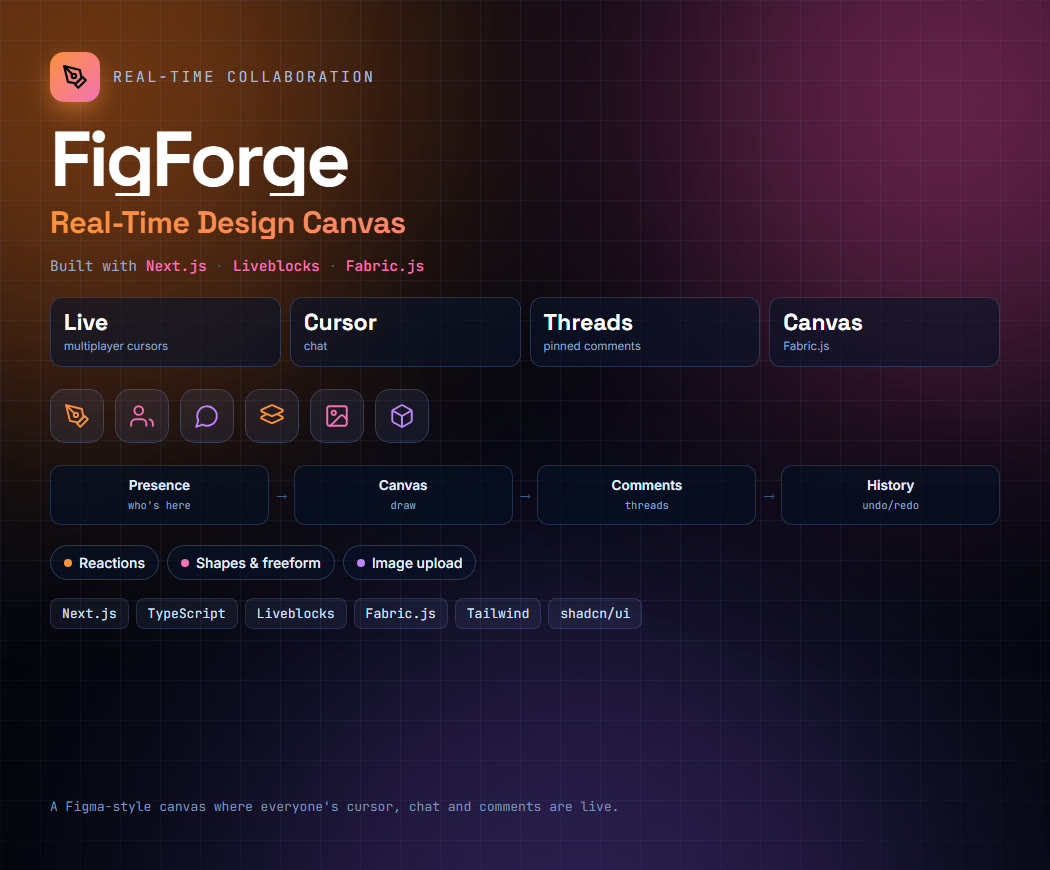
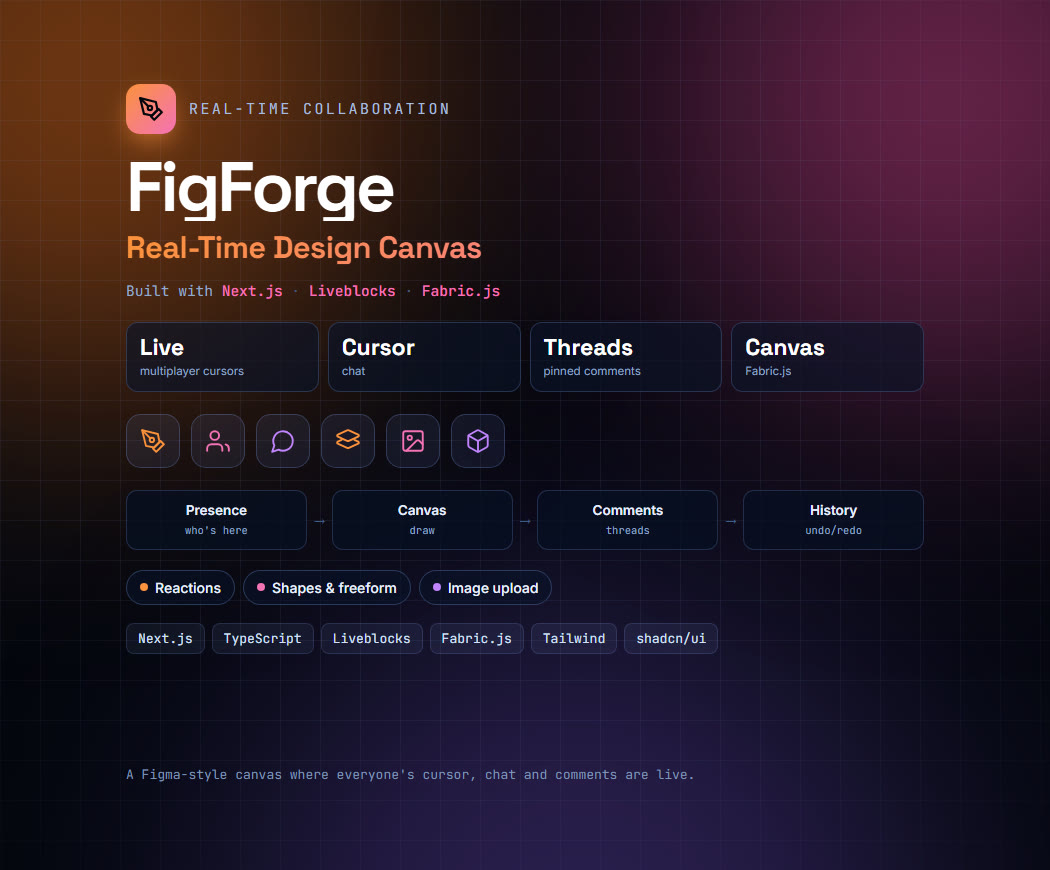
Thumbnails: cover-fit with computed safe margins so cards never letterbox or clip content

diff --git a/app/globals.css b/app/globals.css
@@ -1884,12 +1884,12 @@ svg {
   background: linear-gradient(180deg, rgba(0, 4, 21, 0) 40%, rgba(0, 4, 21, 0.85) 100%);
 }
 
-/* the art column stretches when "More details" expands the text column;
-   contain keeps the whole thumbnail visible at any card height */
+/* The art column ratio changes as "More details" expands the card, so no
+   fixed image ratio can match every state. Cover avoids letterbox bands; the
+   thumbnails are drawn with wide safe margins so the crop never hits content. */
 .project.has-image .project-image {
-  object-fit: contain;
+  object-fit: cover;
   object-position: center;
-  background: #05070c;
 }
 
 .project.has-image .project-art {
